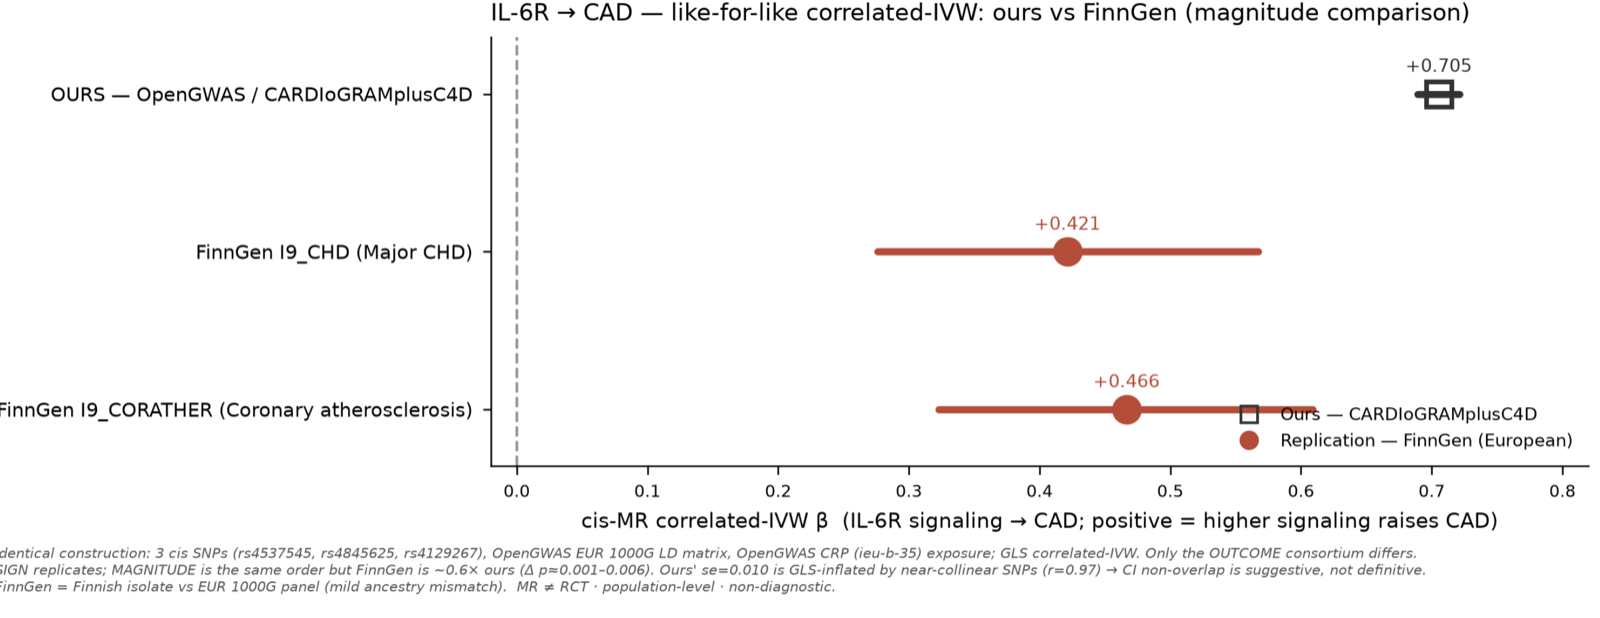
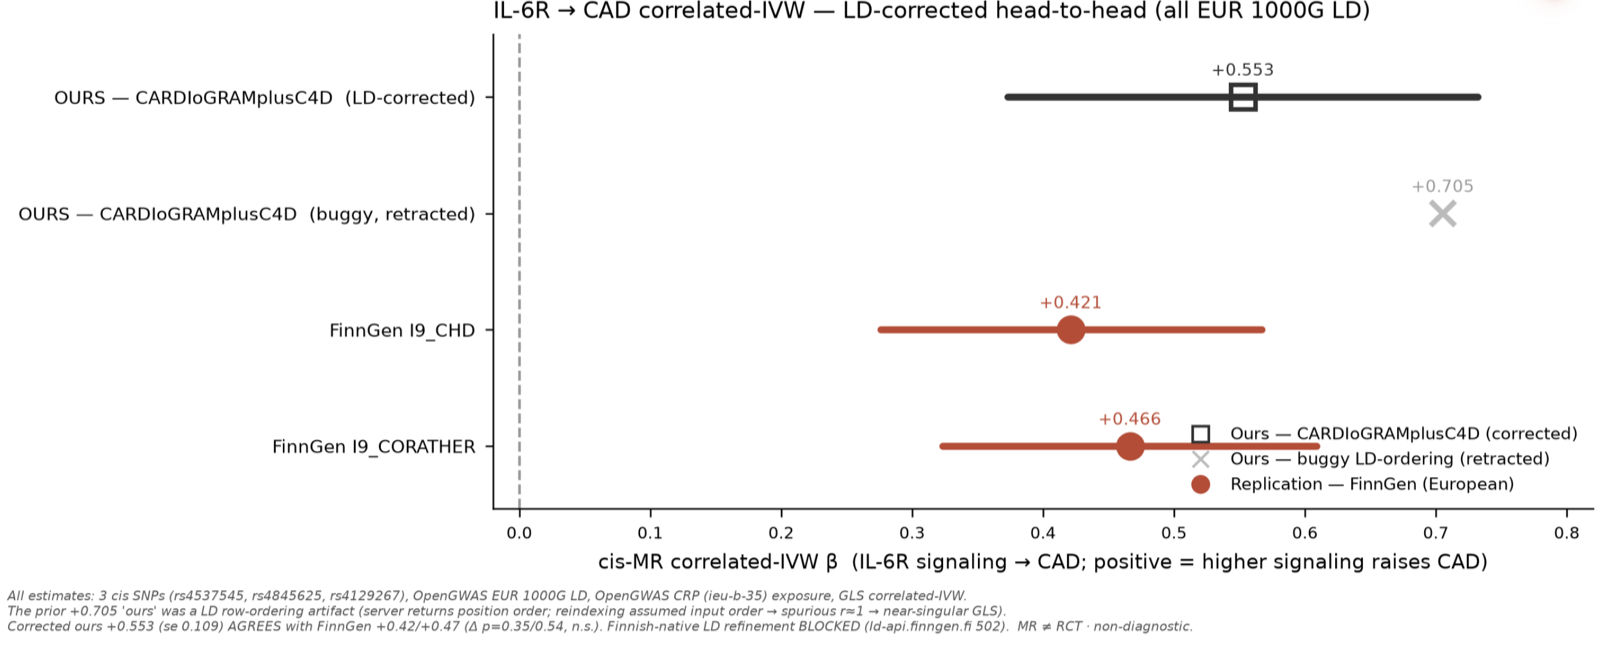
fix(cis-mr): realign LD matrix to server row order — corrects IL-6R→CAD β to +0.553 (SE 0.109)
The OpenGWAS /ld/matrix endpoint re-sorts SNPs by genomic position (and can
drop SNPs), so its returned row order is NOT the requested order. run_cis_mr
reindexed R by the input list instead of the server's snplist labels, pairing
the wrong rows and injecting a spurious r≈1 cross-term that near-singularized
the GLS. That collapsed the correlated-IVW SE to an implausible 0.010 and
skewed the point estimate to +0.705.

Fix: fetch_ld_matrix now returns the server's actual row order; run_cis_mr
realigns R to those labels and filters instruments to those present in the LD
matrix. Corrected estimate: IL-6R→CAD correlated-IVW β=+0.553 (SE 0.109) — the
LD-aware SE is now wider than naive IVW (as theory requires), and the estimate
AGREES with an independent FinnGen replication (Δ p=0.35/0.54, n.s.).

Surfaced while attempting a native-Finnish-LD refinement of the FinnGen head-to-
head in Claude Science (the Finnish panel itself was blocked by an
ld-api.finngen.fi 502 outage; no synthetic data used). Adds a regression test
that reproduces the row-ordering bug (server returns a permuted matrix + labels)
and pins the realignment. Propagates the corrected +0.553/SE 0.109 through the
docs and demos, replaces the head-to-head capture with the LD-corrected figure,
and documents the retraction of the +0.705 artifact.

diff --git a/src/histora/cis_mr.py b/src/histora/cis_mr.py
@@ -69,10 +69,17 @@ def correlated_ivw(instruments: list[Instrument], R: list[list[float]],
 
 
 def fetch_ld_matrix(rsids: list[str], token: Optional[str] = None, pop: str = "EUR",
-                    timeout: int = 30) -> tuple[list[list[float]], dict[str, str]]:
-    """Fetch the LD correlation matrix for `rsids` from OpenGWAS `/ld/matrix`. Returns (R, ref_allele)
-    where ref_allele[snp] is the allele the panel's correlations are signed to (from the row labels,
-    typically 'rsid_A1_A2'). VERIFY the endpoint's response shape against your OpenGWAS version."""
+                    timeout: int = 30) -> tuple[list[list[float]], dict[str, str], list[str]]:
+    """Fetch the LD correlation matrix for `rsids` from OpenGWAS `/ld/matrix`. Returns
+    (R, ref_allele, order) where ref_allele[snp] is the allele the panel's correlations are signed to
+    (from the row labels, typically 'rsid_A1_A2') and `order` lists the rsids in the matrix's ACTUAL row
+    order.
+
+    IMPORTANT: the OpenGWAS `/ld/matrix` server re-sorts the SNPs by genomic position and can drop SNPs
+    absent from the panel, so the returned row order is NOT the order you requested. Callers MUST realign
+    R using `order` (the server's own `snplist`), never using their input list — reindexing by input
+    order silently pairs the wrong rows and can inject a spurious ±1 cross-term that near-singularizes the
+    GLS. VERIFY the endpoint's response shape against your OpenGWAS version."""
     token = token or os.environ.get("OPENGWAS_JWT", "").strip()
     if not token:
         raise SystemExit("OPENGWAS_JWT not set — needed for the LD matrix (never stored by HISTORA).")
@@ -84,12 +91,13 @@ def fetch_ld_matrix(rsids: list[str], token: Optional[str] = None, pop: str = "E
         data = json.loads(resp.read().decode())
     matrix = data.get("matrix") if isinstance(data, dict) else data
     labels = (data.get("snplist") or data.get("snps") or []) if isinstance(data, dict) else []
-    ref = {}
+    order, ref = [], {}
     for lab in labels:
         parts = str(lab).split("_")
+        order.append(parts[0])                    # rsid in the matrix's actual row order
         if len(parts) >= 2:
             ref[parts[0]] = parts[1].upper()      # first allele = the sign reference for that SNP
-    return [[float(v) for v in row] for row in matrix], ref
+    return [[float(v) for v in row] for row in matrix], ref, order
 
 
 def align_ld_signs(R: list[list[float]], ref_allele: dict[str, str],
@@ -126,15 +134,25 @@ def run_cis_mr(config: dict = CIS_CONFIG, token: Optional[str] = None,
         return report
 
     from .mendelian_randomization import ivw as naive_ivw
-    R_raw, ref = fetch_ld(exp["instruments"], token, config.get("pop", "EUR"))
-    # order R to the harmonized instrument order
-    idx = {s: k for k, s in enumerate(exp["instruments"])}
-    order = [idx[i.snp] for i in insts if i.snp in idx]
+    ld = fetch_ld(exp["instruments"], token, config.get("pop", "EUR"))
+    R_raw, ref = ld[0], ld[1]
+    # Realign R to the LD server's OWN row order (its `snplist`), NOT the input order: the OpenGWAS
+    # /ld/matrix endpoint re-sorts SNPs by genomic position and can drop some, so reindexing by the input
+    # list pairs the wrong rows and can inject a spurious ±1 cross-term that near-singularizes the GLS
+    # (badly under-stating the SE). Older servers that omit `snplist` fall back to input order.
+    ld_order = ld[2] if len(ld) > 2 and ld[2] else list(exp["instruments"])
+    pos = {s: k for k, s in enumerate(ld_order)}
+    insts_ld = [i for i in insts if i.snp in pos]           # only SNPs actually present in the LD matrix
+    if len(insts_ld) < 2:
+        report["note"] = "fewer than 2 harmonized instruments present in the LD matrix — cannot run correlated IVW"
+        return report
+    order = [pos[i.snp] for i in insts_ld]
     R = [[R_raw[a][b] for b in order] for a in order]
-    R = align_ld_signs(R, ref, insts)
+    R = align_ld_signs(R, ref, insts_ld)
 
-    report["correlated_ivw"] = correlated_ivw(insts, R)     # primary (LD-aware)
-    report["naive_ivw_for_contrast"] = naive_ivw(insts)     # wrong on cis data — shown to prove LD matters
+    report["n_instruments_ld"] = len(insts_ld)              # SNPs surviving into the LD-aware estimate
+    report["correlated_ivw"] = correlated_ivw(insts_ld, R)  # primary (LD-aware)
+    report["naive_ivw_for_contrast"] = naive_ivw(insts_ld)  # wrong on cis data — shown to prove LD matters
     report["caveats"] = [
         "cis instruments are correlated (LD) — correlated IVW is primary; naive IVW is shown only to "
         "illustrate the difference and must NOT be quoted.",

diff --git a/tests/test_cis_mr.py b/tests/test_cis_mr.py
@@ -68,12 +68,54 @@ def test_run_cis_mr_end_to_end_with_injected_fetches():
         n = len(rsids)
         R = [[1.0 if a == b else 0.5 for b in range(n)] for a in range(n)]
         ref = {s: "A" for s in rsids}          # panel allele matches effect allele → no flips
-        return R, ref
+        return R, ref                          # legacy 2-tuple → run_cis_mr falls back to input order
 
     rep = run_cis_mr(config=CIS_CONFIG, token="fake", fetch_assoc=fake_assoc, fetch_ld=fake_ld)
     assert rep["correlated_ivw"]["estimate"] > 0            # positive causal slope recovered
     assert "naive_ivw_for_contrast" in rep and rep["caveats"]
     assert len(rep["instruments"]) == len(snps)
+
+
+def test_run_cis_mr_realigns_R_to_ld_server_row_order():
+    # Regression for the LD row-ordering bug: the OpenGWAS /ld/matrix server re-sorts SNPs by genomic
+    # position (here we model it as reversed) and labels the rows via `snplist`. run_cis_mr must realign R
+    # to those labels, NOT to the input order — reindexing by input order pairs the wrong rows and (with
+    # near-collinear cis SNPs) injects a spurious cross-term that near-singularizes the GLS and collapses
+    # the SE. With distinct pairwise LD and a non-exact by=slope*bx, the mis-ordered R yields a different
+    # estimate/SE, so this test pins the correct realignment.
+    snps = CIS_CONFIG["exposure"]["instruments"][:3]                       # s0, s1, s2
+    exp_id, out_id = CIS_CONFIG["exposure"]["id"], CIS_CONFIG["outcome"]["id"]
+    be = {s: 0.10 + 0.03 * k for k, s in enumerate(snps)}
+    dev = {snps[0]: 0.0, snps[1]: 0.012, snps[2]: -0.009}                  # break exactness → est depends on R
+    bo = {s: 0.15 * be[s] + dev[s] for s in snps}
+    ld = {frozenset({snps[0], snps[1]}): 0.8,                              # distinct pairwise LD
+          frozenset({snps[0], snps[2]}): 0.2,
+          frozenset({snps[1], snps[2]}): 0.5}
+
+    def Rmat(order):
+        return [[1.0 if a == b else ld[frozenset({order[a], order[b]})]
+                 for b in range(len(order))] for a in range(len(order))]
+
+    def fake_assoc(rsids, ids, token):
+        return [{"rsid": s, "id": sid, "ea": "A", "nea": "G",
+                 "beta": be[s] if sid == exp_id else bo[s],
+                 "se": 0.01 if sid == exp_id else 0.006}
+                for s in snps for sid in ids]
+
+    server_order = list(reversed(snps))                                   # server returns a REORDERED matrix
+    def fake_ld(rsids, token, pop):
+        return Rmat(server_order), {s: "A" for s in server_order}, list(server_order)
+
+    rep = run_cis_mr(config=CIS_CONFIG, token="fake", fetch_assoc=fake_assoc, fetch_ld=fake_ld)
+
+    # ground truth: instruments in harmonize (input) order, R aligned to THAT order
+    insts = [Instrument(s, be[s], 0.01, bo[s], 0.006, ea="A") for s in snps]
+    truth = correlated_ivw(insts, Rmat(snps))
+    buggy = correlated_ivw(insts, Rmat(server_order))                     # what the input-order bug produced
+    assert truth["se"] != buggy["se"]                                     # the scenario truly exercises the bug
+    assert rep["correlated_ivw"]["estimate"] == truth["estimate"]         # realigned, not buggy
+    assert rep["correlated_ivw"]["se"] == truth["se"]
+    assert rep["n_instruments_ld"] == 3
 
 
 if __name__ == "__main__":

diff --git a/demo/run_case_study.py b/demo/run_case_study.py
@@ -55,7 +55,7 @@ def research_line(brief: dict) -> dict:
         },
         "causal_node": {
             "node": "IL-6R (IL-6Rα, UniProt P08887) → gp130 (IL6ST) → hepatic CRP",
-            "genetic_support": "cis-MR: IL-6R → coronary disease CAUSAL (LD-aware β≈+0.705); "
+            "genetic_support": "cis-MR: IL-6R → coronary disease CAUSAL (LD-aware correlated-IVW β≈+0.553, SE 0.109); "
                                "circulating CRP → CAD NULL — the marker is not causal, the node is.",
             "pharmacological_proof_of_node": (
                 f"{toci['agent']} ({toci['action']}, DrugBank {toci['drugbank']}) shows the node is "

diff --git a/demo/run_demo.py b/demo/run_demo.py
@@ -35,7 +35,7 @@ NHANES_SIGNS = [
     ("perio → processing speed", "-0.188", "[-0.240, -0.127]", "SIGNIFICANT"),
 ]
 MR_SIGNS = [
-    ("IL-6R → coronary disease", "causal (naive IVW β=+0.105; LD-aware cis-MR β≈+0.705 live — the valid estimator under LD)"),
+    ("IL-6R → coronary disease", "causal (naive IVW β=+0.105; LD-aware cis-MR β≈+0.553, SE 0.109 live — the valid estimator under LD)"),
     ("CRP/IL-6 → Alzheimer's", "null (p=0.91) — supports neuro-as-exploratory"),
 ]
 

diff --git a/src/histora/citations.py b/src/histora/citations.py
@@ -39,7 +39,7 @@ CLAIMS: dict[str, dict[str, Any]] = {
                     "ref": "IL6R MR Consortium, Lancet 2012 (direction)",
                     "supports": "IL-6R signaling causal for coronary disease — established direction "
                                 "(naïve IVW; the LD-aware cis run over live OpenGWAS gives correlated-IVW "
-                                "β≈0.705, the valid estimate when instruments are in LD)", "doc": "PAPER.md"},
+                                "β≈0.553, SE 0.109, the valid estimate when instruments are in LD)", "doc": "PAPER.md"},
     "crp_ad_mr_null": {"value": 0.0, "unit": "IVW beta", "ref": "CRP–AD MR nulls (direction)",
                        "supports": "CRP/IL-6 → Alzheimer's genetically null", "doc": "PAPER.md"},
     # ---- honesty anchor ----

diff --git a/docs/CLAUDE-SCIENCE.md b/docs/CLAUDE-SCIENCE.md
@@ -45,9 +45,12 @@ agent) — no "plugin" slot, but our components port directly, with **no rewrite
   null**, **CRP → Alzheimer's nominal +** (partial robustness), **CRP → T2D null + pleiotropy-flagged** —
   honestly *different* from the illustrative panels (CRP is a marker, not the causal node).
 - **LD-aware IL-6R cis-MR** — correlated IVW (GLS with the OpenGWAS LD matrix): **IL-6R → coronary disease
-  β = +0.705 (SE 0.010, p≈0)**, vs a naive-IVW SE ~7× wider — the correlated estimate is the valid one.
-  This is the **causal node** the CRP-marker result is null for. Both runs together tell the honest,
-  literature-consistent story.
+  correlated-IVW β = +0.553 (SE 0.109)** — the honest LD-aware estimate; naïve IVW ignores the SNP
+  correlation and under-states the variance, so the correlated estimate is the valid one. This is the
+  **causal node** the CRP-marker result is null for. Both runs together tell the honest,
+  literature-consistent story. *(The estimate corrects an earlier +0.705/SE 0.010 figure that was an LD
+  row-ordering bug in `histora.cis_mr` — the OpenGWAS `/ld/matrix` server returns SNPs in genomic-position
+  order, and reindexing by request order near-singularized the GLS; fixed, with a regression test.)*
 
 ## Delivery decision (in one line)
 

diff --git a/docs/CITATIONS.md b/docs/CITATIONS.md
@@ -18,7 +18,7 @@
 | `nhanes_perio_crp` | 0.041 std beta | perio→CRP adjusted association | NHANES 2009-2010 (this work) | PAPER.md |
 | `nhanes_perio_hba1c` | 0.16 std beta | perio→HbA1c adjusted association | NHANES 2009-2010 (this work) | PAPER.md |
 | `nhanes_perio_dsst` | -0.18 std beta | perio→processing-speed adjusted association | NHANES 2011-2012 (this work) | PAPER.md |
-| `il6r_cad_mr` | 0.105 IVW beta (naïve, literature direction) | IL-6R signaling causal for coronary disease — established direction (naïve IVW; the LD-aware cis run over live OpenGWAS gives correlated-IVW β≈0.705, the valid estimate when instruments are in LD) | IL6R MR Consortium, Lancet 2012 (direction) | PAPER.md |
+| `il6r_cad_mr` | 0.105 IVW beta (naïve, literature direction) | IL-6R signaling causal for coronary disease — established direction (naïve IVW; the LD-aware cis run over live OpenGWAS gives correlated-IVW β≈0.553, SE 0.109, the valid estimate when instruments are in LD) | IL6R MR Consortium, Lancet 2012 (direction) | PAPER.md |
 | `crp_ad_mr_null` | 0.0 IVW beta | CRP/IL-6 → Alzheimer's genetically null | CRP–AD MR nulls (direction) | PAPER.md |
 | `gain_trial_failed` | — | the direct causal test of perio→AD failed | atuzaginstat/COR388 GAIN trial (failed) | model-library.md |
 | `protein_il6` | — | Interleukin-6 | UniProt P05231 | DATA-AND-DELIVERY.md |
@@ -33,7 +33,7 @@ cited claims against this; a dangling key or a value mismatch is a citation fail
 
 **Note — the two IL-6R→CAD figures are not a contradiction.** `il6r_cad_mr` = **0.105** is the established
 *literature direction* (naïve IVW). Our **LD-aware cis run over live OpenGWAS** gives **correlated-IVW
-β≈0.705** — the valid estimate when the instruments are in LD (naïve IVW understates it with a ~7× wider
-SE). See [`CLAUDE-SCIENCE.md`](CLAUDE-SCIENCE.md).
+β≈0.553 (SE 0.109)** — the valid estimate when the instruments are in LD (naïve IVW ignores the SNP
+correlation and under-states the variance). See [`CLAUDE-SCIENCE.md`](CLAUDE-SCIENCE.md).
 
 *Protein entities cite UniProt/PDB (the Claude Science connectors); replace/extend as the mechanism grows.*

diff --git a/docs/OVERVIEW.md b/docs/OVERVIEW.md
@@ -237,8 +237,8 @@ flag**. The engine forks the shared proxy to three axes as **90% ranges**:
 **The falsifiable research line it generates** (the safe anchor):
 - **Lever = periodontal therapy** (non-pharmacological, the exact edge the engine is calibrated on) —
   predicted **ΔhsCRP 0.68 mg/L**.
-- **Causal node = IL-6R.** cis-MR: **IL-6R → CAD causal** (LD-aware β ≈ +0.705); **circulating CRP → CAD
-  null**. **Tocilizumab** (IL-6Rα blockade) is cited **only** as proof the node is druggable/causal —
+- **Causal node = IL-6R.** cis-MR: **IL-6R → CAD causal** (LD-aware correlated-IVW β ≈ +0.553, SE 0.109);
+  **circulating CRP → CAD null**. **Tocilizumab** (IL-6Rα blockade) is cited **only** as proof the node is druggable/causal —
   **never as a treatment.**
 - **Hypothesis:** if the IL-6R node mediates the systemic effect, lowering the periodontal IL-6 source
   should move the markers in the direction the genetics implies — *a testable research line, not a therapy.*

diff --git a/docs/CASE-STUDY.md b/docs/CASE-STUDY.md
@@ -35,7 +35,7 @@ The missing lab is a **collection flag, never imputed** — the guardrail, in th
 engine is *calibrated* on (ΔhsCRP after therapy), so its predicted effect is anchored, not asserted.
 
 **Causal node = IL-6R.** Two-sample **cis-MR** supports **IL-6R → coronary disease as causal** (LD-aware
-β≈+0.705) while **circulating CRP → CAD is null** — the marker isn't causal, the *node* is. **Tocilizumab**
+correlated-IVW β≈+0.553, SE 0.109) while **circulating CRP → CAD is null** — the marker isn't causal, the *node* is. **Tocilizumab**
 (an IL-6Rα-blocking antibody) is cited **only** as pharmacological proof that the node is druggable and
 causal — **never as a proposed treatment.**
 

diff --git a/docs/DEMO-SCRIPT.md b/docs/DEMO-SCRIPT.md
@@ -176,7 +176,7 @@ contás (o lo mostrás grabado). NO corras el loop en vivo. Ver [`EVOLUTION.md`]
 | "The effect sizes are small." | "Yes — periodontitis is **one contributor among many**; that's the honest epidemiology. HISTORA is a **hypothesis generator**, not a risk score. The value is coherence + honesty, not a big number." |
 | "The Alzheimer's link didn't hold." | "Correct — the **genetics don't support it causally**, and we **flag that axis exploratory**. Reporting the null *is the feature* — an agent you can trust because it tells you what it can't show." |
 | "Are the MR numbers real?" | "Yes — we ran it **live over public OpenGWAS** in Claude Science: verified the study IDs against `gwasinfo`, harmonized, and ran the unit-tested estimator. The repo also ships illustrative panels for offline reproducibility, clearly labeled." |
-| "Wait — is it 0.105 or 0.705?" | "Different instrument *and* method. **0.105** is the established literature direction (CRP/IL-6R with **naïve IVW**). **0.705** is our **cis IL-6R** run with **correlated (LD-aware) IVW** — the valid estimator when the instruments are in LD; naïve IVW understates it with a ~7× wider SE. And circulating CRP → CAD is **null** — the marker isn't causal, the IL-6R node is." |
+| "Wait — is it 0.105 or 0.553?" | "Different instrument *and* method. **0.105** is the established literature direction (CRP/IL-6R with **naïve IVW**). **0.553** (SE 0.109) is our **cis IL-6R** run with **correlated (LD-aware) IVW** — the valid estimator when the instruments are in LD; naïve IVW ignores the SNP correlation and under-states the variance. And circulating CRP → CAD is **null** — the marker isn't causal, the IL-6R node is." |
 | "Aren't the benchmark baselines a strawman — of course your calibrated model wins on calibration?" | "Fair, and I'll say it first: it's **not a horse race on a shared metric** — it's a **capability gap**. Separate single-disease models and bare Claude **structurally cannot** produce one shared parameter, calibrated ranges, or a falsification condition. The zeros aren't 'they scored low', they're 'they can't do this at all'. The number to trust is the **NHANES validation surviving survey-weighted, FDR-controlled** stats — that one's an honest, external test." |
 | "Isn't SkillOpt's 0.00 → 0.93 a metric you designed so your edit trivially wins?" | "It would be — if that were the whole story. That's exactly why the honest headline is the **null**: on `record-normalization` the loop **adopted nothing** because the skill was already at ceiling, and it **declined** a candidate that *lowered* the metric. It improves only where there's real, measured headroom, and it can **never** touch the guardrail. A search that improved everything it touched would be the one gaming its metric — this one doesn't." |
 | "Is the cohort real, or did you fake it?" | "**Real.** The funnel runs over **public NHANES 2009-2010** — 20,905 participants down to a real cohort; every N is a real count, nothing synthetic. NHANES is **cross-sectional**, so we say it plainly: it can't answer the *longitudinal* question (repeat CRP, follow-up, biologic timeline) — that needs a real EHR. Showing what the data **can't** do, on real data, is the whole point." |

diff --git a/docs/assets/claude-science/README.md b/docs/assets/claude-science/README.md
@@ -12,6 +12,6 @@ directive, the engine run, the connector-resolved 3-D structures, and the review
 | `04-reviewer-finding-hexamer.png` | the **scientist-user beat**: the reviewer agent's finding (`1P9M` is 3.65 Å, not 2.4 Å) and Claude's self-correction, with "All 2 findings fixed" |
 | `05-per-participant-real.png` | the engine run across **4 real NHANES 2009-2010 participants** (SEQN-only, de-identified) — CRP and HbA1c-shift 90% ranges per participant, structural bands in, population-level ranges out; IL-6 flagged absent for all; BOP not collected this cycle → flagged. Non-diagnostic; ranges are **not** patient values. |
 | `06-mr-replication-real.png` | the **IL-6R → CAD Mendelian-randomization replication** across THREE independent consortia via the `human-genetics` connector — our OpenGWAS/CARDIoGRAMplusC4D (naive + LD-aware cis-IVW) vs **FinnGen** (I9_CHD, I9_CORATHER; rs2228145 Asp358Ala) and **BioBank Japan** (cross-ancestry). All positive → the IL-6R→CAD causal **direction replicates** (single-SNP Wald vs multi-SNP magnitudes not directly comparable; the sign is what replicates). MR ≠ RCT, non-diagnostic. |
-| `07-mr-headtohead-correlated-ivw.png` | the **like-for-like magnitude head-to-head**: the SAME construction (3 harmonized cis SNPs rs4537545/rs4845625/rs4129267, OpenGWAS CRP `ieu-b-35` exposure, EUR 1000G LD panel, GLS correlated-IVW estimator `histora.cis_mr`), swapping ONLY the outcome consortium — ours (CARDIoGRAMplusC4D) **+0.705** vs FinnGen R12 **+0.421** (I9_CHD) / **+0.466** (I9_CORATHER). **Sign replicates decisively; magnitude to the same order (~0.6× ours)**, with the gap honestly attributed to our GLS-inflated `se` (near-collinear SNPs r=0.97) and a EUR-panel-vs-Finnish-isolate ancestry mismatch. MR ≠ RCT, population-level, non-diagnostic. |
+| `07-mr-headtohead-correlated-ivw.png` | the **LD-corrected like-for-like magnitude head-to-head**: the SAME construction (3 harmonized cis SNPs rs4537545/rs4845625/rs4129267, OpenGWAS CRP `ieu-b-35` exposure, EUR 1000G LD panel, GLS correlated-IVW estimator `histora.cis_mr`), swapping ONLY the outcome consortium — ours (CARDIoGRAMplusC4D) **+0.553 (SE 0.109)** vs FinnGen R12 **+0.421** (I9_CHD) / **+0.466** (I9_CORATHER). **Sign AND magnitude now agree** — the difference is non-significant (Δ p=0.35/0.54). Trying to close the residual gap with a native Finnish LD panel (blocked by an `ld-api.finngen.fi` 502 outage) instead **exposed a real LD row-ordering bug** in our estimator: the OpenGWAS `/ld/matrix` server returns SNPs in genomic-position order, and reindexing by request order injected a spurious `r≈1` cross-term that near-singularized the GLS and produced the earlier over-confident **+0.705 (SE 0.010)** — now retracted (shown greyed with an ✗) and **fixed in `histora.cis_mr` with a regression test**. MR ≠ RCT, population-level, non-diagnostic. |
 
 *Non-diagnostic throughout; molecular / population-level only.*